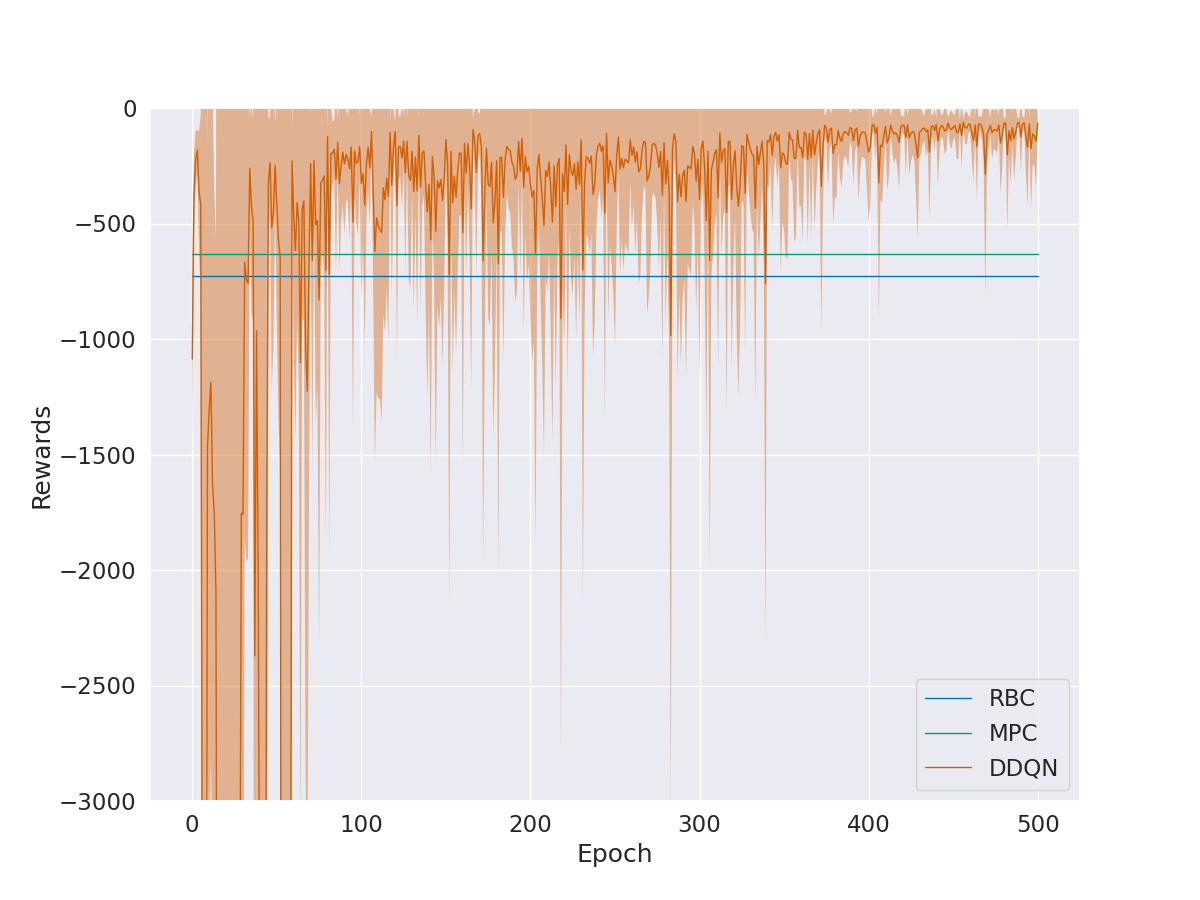
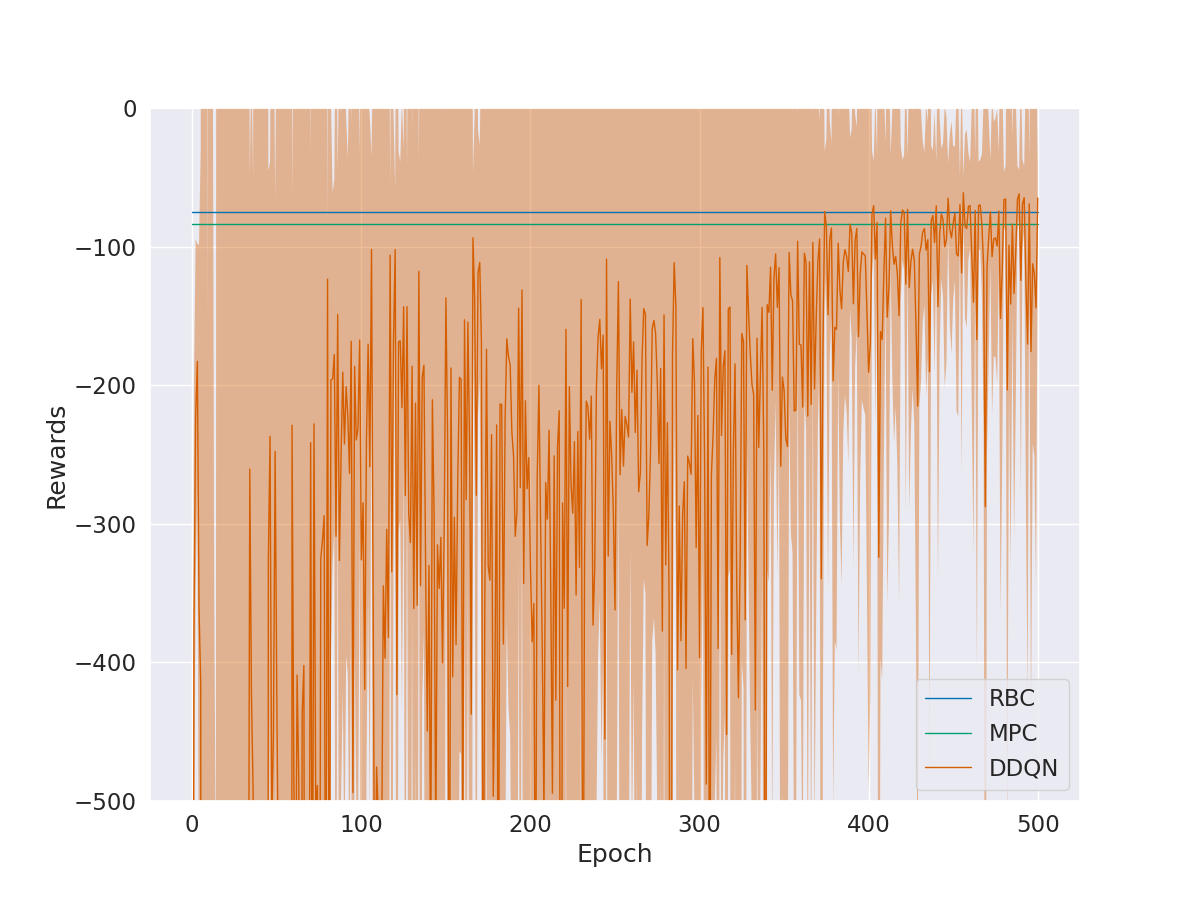
update rewards for DRL-R1

diff --git a/testcases/comparison_results/single-zone/calculate_rewards_mpc_rbc.py b/testcases/comparison_results/single-zone/calculate_rewards_mpc_rbc.py
@@ -88,41 +88,6 @@ while t < te:
     i += 1
     options['initialize'] = False
 
-################################################
-##           DDQN Final Simulation
-## =============================================
-
-# read optimal control inputs
-acts = np.load('./his_act.npy', allow_pickle=True)
-acts = [act/50. for act in acts]
-
-### 1- Load virtual building model
-hvac.reset()
-
-## fmu settings
-options = hvac.simulate_options()
-options['ncp'] = 100
-options['initialize'] = True
-options['result_handling'] = 'memory'
-options['filter'] = measurement_names
-res_ddqn = []
-hvac.set("zon.roo.T_start", 273.15+25)
-# main loop - do step
-t = ts
-i = 0
-while t < te:
-    u = acts[i]
-    hvac.set("uFan", u)
-    ires = hvac.simulate(start_time=t,
-                         final_time=t+dt,
-                         options=options)
-    res_ddqn.append(ires)
-
-    t += dt
-    i += 1
-    options['initialize'] = False
-
-
 ################################################################
 ##           Compare MPC/DRL with Baseline
 ## =============================================================
@@ -139,11 +104,6 @@ for name in measurement_names:
     for ires in res_mpc:
       value_name_mpc += list(ires[name])
     measurement_mpc[name] = np.array(value_name_mpc)
-    # get ddqn 
-    value_name_ddqn = []
-    for ires in res_ddqn:
-      value_name_ddqn += list(ires[name])
-    measurement_ddqn[name] = np.array(value_name_ddqn)
 
 ## simulate baseline
 occ_start = 8
@@ -170,7 +130,6 @@ def interpolate_dataframe(df,new_index):
 
 measurement_base = pd.DataFrame(measurement_base,index=measurement_base['time'])
 measurement_mpc = pd.DataFrame(measurement_mpc,index=measurement_mpc['time'])
-measurement_ddqn = pd.DataFrame(measurement_ddqn,index=measurement_ddqn['time'])
 
 # shouldn't use mean value as the DRL use instant value
 #tim_intp_60 = np.arange(ts,te+1,60)
@@ -182,7 +141,6 @@ measurement_ddqn = pd.DataFrame(measurement_ddqn,index=measurement_ddqn['time'])
 tim_intp = np.arange(ts,te+1,dt)
 measurement_base = interpolate_dataframe(measurement_base[['PTot','TRoo', 'fcu.uFan']],tim_intp)
 measurement_mpc = interpolate_dataframe(measurement_mpc[['PTot','TRoo', 'fcu.uFan']],tim_intp)
-measurement_ddqn = interpolate_dataframe(measurement_ddqn[['PTot','TRoo', 'fcu.uFan']],tim_intp)
 
 def rw_func(cost, penalty, delta_action):
 
@@ -238,23 +196,25 @@ def get_rewards(u, Ptot,TZone,price_tou):
 #================================================================================
 rewards_base = get_rewards(measurement_base['fcu.uFan'].values, measurement_base['PTot'].values,measurement_base['TRoo'].values,price_tou)
 rewards_mpc = get_rewards(measurement_mpc['fcu.uFan'].values, measurement_mpc['PTot'].values,measurement_mpc['TRoo'].values,price_tou)
-rewards_ddqn = get_rewards(measurement_ddqn['fcu.uFan'].values, measurement_ddqn['PTot'].values,measurement_ddqn['TRoo'].values,price_tou)
 
 rewards_base = pd.DataFrame(rewards_base,columns=[['ene_cost','penalty', 'delta_action', 'rewards']])
 rewards_mpc = pd.DataFrame(rewards_mpc,columns=[['ene_cost','penalty','delta_action', 'rewards']])
-rewards_ddqn = pd.DataFrame(rewards_ddqn,columns=[['ene_cost','penalty','delta_action', 'rewards']])
 
 # get rewards - DRL - we can either read from training results or 
 # recalculate using the method for mpc and baseline (very time consuming for multi-epoch training)
-print("ddqn: " + str(rewards_ddqn['rewards'].sum()))
+### ===============
 mpc_rbc_rewards={'base': {'rewards':list(rewards_base['rewards'].sum()),
                         'ene_cost': list(rewards_base['ene_cost'].sum()),
                         'total_temp_violation': list(rewards_base['penalty'].sum()/4),
-                        'max_temp_violation': list(rewards_base['penalty'].max())},
+                        'max_temp_violation': list(rewards_base['penalty'].max()),
+                        'temp_violation_squared': list((rewards_base['penalty']**2).sum()),
+                        'delta_action_sqaured': list((rewards_base['delta_action']**2).sum())},
                  'mpc': {'rewards': list(rewards_mpc['rewards'].sum()),
                           'ene_cost': list(rewards_mpc['ene_cost'].sum()),
                           'total_temp_violation': list(rewards_mpc['penalty'].sum()/4),
-                          'max_temp_violation': list(rewards_mpc['penalty'].max())},
+                          'max_temp_violation': list(rewards_mpc['penalty'].max()),
+                          'temp_violation_squared': list((rewards_mpc['penalty']**2).sum()),
+                          'delta_action_sqaured': list((rewards_mpc['delta_action']**2).sum())},
                 }
 with open('mpc_rewards.json', 'w') as outfile:
     json.dump(mpc_rbc_rewards, outfile)

diff --git a/testcases/comparison_results/single-zone/plot_rewards.py b/testcases/comparison_results/single-zone/plot_rewards.py
@@ -112,11 +112,18 @@ if __name__ == "__main__":
     ## load mpc/rbc rewards
     with open('mpc_rewards.json') as f:
         mpc_rewards = json.load(f)
-    mpc = mpc_rewards['mpc']['rewards'][0]
-    rbc = mpc_rewards['base']['rewards'][0]
+    
+    root_dir = args.root_dir
+    if "DRL-R2" in root_dir:
+        mpc = mpc_rewards['mpc']['rewards'][0]
+        rbc = mpc_rewards['base']['rewards'][0]
+    elif "DRL-R1" in root_dir:
+        mpc = -(10*mpc_rewards['mpc']['ene_cost'][0] + \
+              mpc_rewards['mpc']['temp_violation_squared'][0])
+        rbc = -(10*mpc_rewards['base']['ene_cost'][0] +
+                mpc_rewards['base']['temp_violation_squared'][0])
 
     ## read DRL results
-    root_dir = args.root_dir
     algors = find_all_algorithms(root_dir)
     print(algors)
     drl_rewards_files = find_all_files(root_dir, algors, re.compile(".*test_rew.csv"))
@@ -147,7 +154,13 @@ if __name__ == "__main__":
     ax.set_ylabel('Rewards')
     ax.set_xticks(xticks)
     ax.set_xticklabels(xticklabels)
-    ax.set_ylim([-3000, 0])
+    
+    # SET YLIM
+    if "DRL-R2" in root_dir:
+        ylim = [-3000, 0]
+    elif "DRL-R1" in root_dir:
+        ylim = [-500, 0]
+    ax.set_ylim(ylim)
     plt.legend(loc=4)
     plt.savefig(os.path.join(root_dir, 'rewards.png'))
     plt.savefig(os.path.join(root_dir, 'rewards.pdf'))
